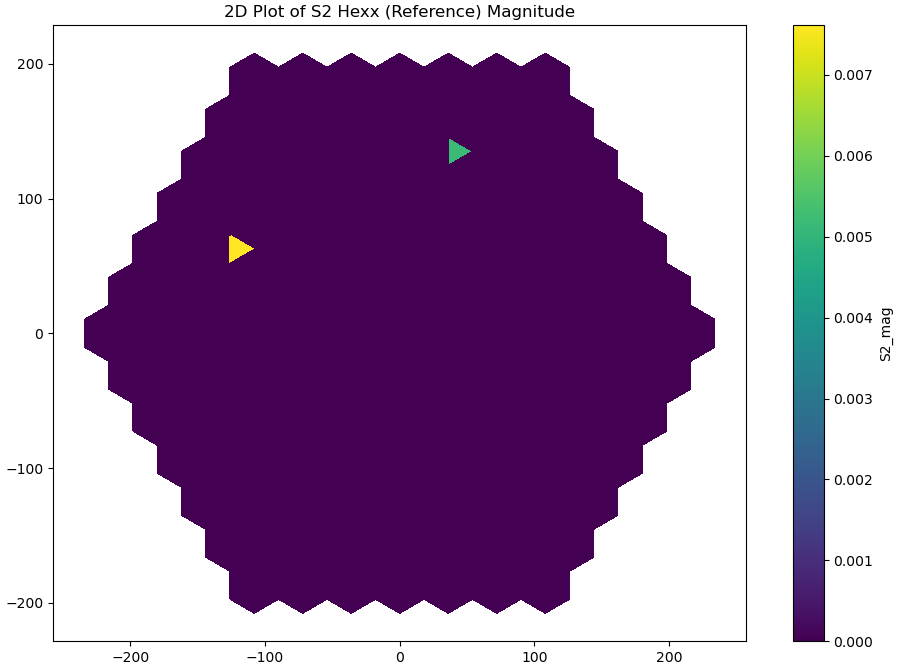
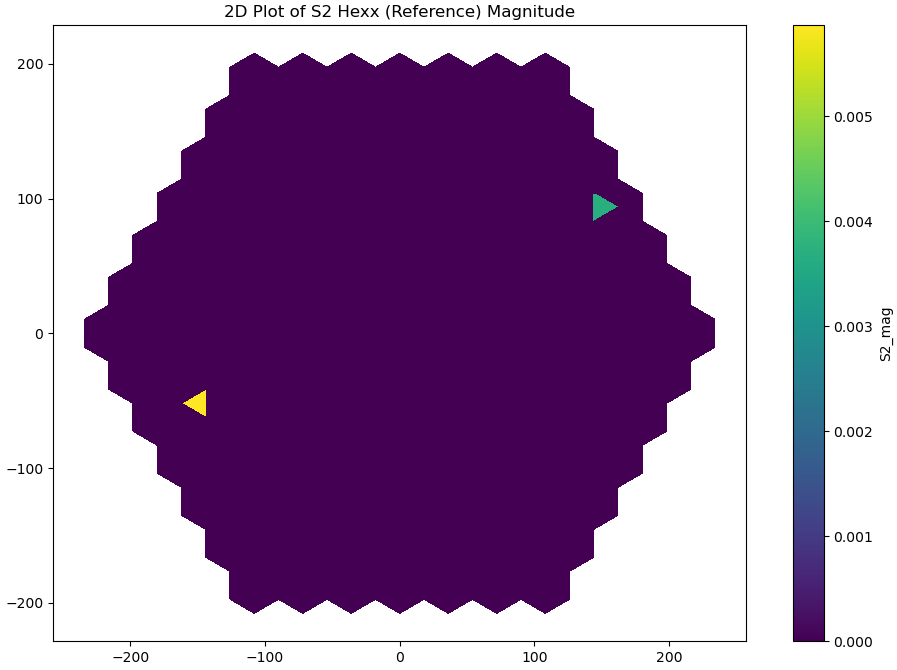
plot edited

diff --git a/try_plot.py b/try_plot.py
@@ -163,7 +163,7 @@ def find_boundary_for_each_hex(triangle_neighbors, ownership):
 # Parameters
 s = 50
 I_max, J_max = 2, 2
-level = 3
+level = 2
 #conv_hexx = [1,1,1,1]
 conv_hexx = [1,1,1,1]
 
@@ -202,7 +202,7 @@ plt.triplot(x, y, tri_indices, color='blue', linewidth=0.5)
 for idx, triangle in enumerate(all_triangles):
     centroid_x = np.mean([v[0] for v in triangle])
     centroid_y = np.mean([v[1] for v in triangle])
-    plt.text(centroid_x, centroid_y, str(idx), fontsize=4, ha='center', va='center')
+    plt.text(centroid_x, centroid_y, str(idx), fontsize=8, ha='center', va='center')
 
 plt.axis('equal')
 plt.axis('off')
